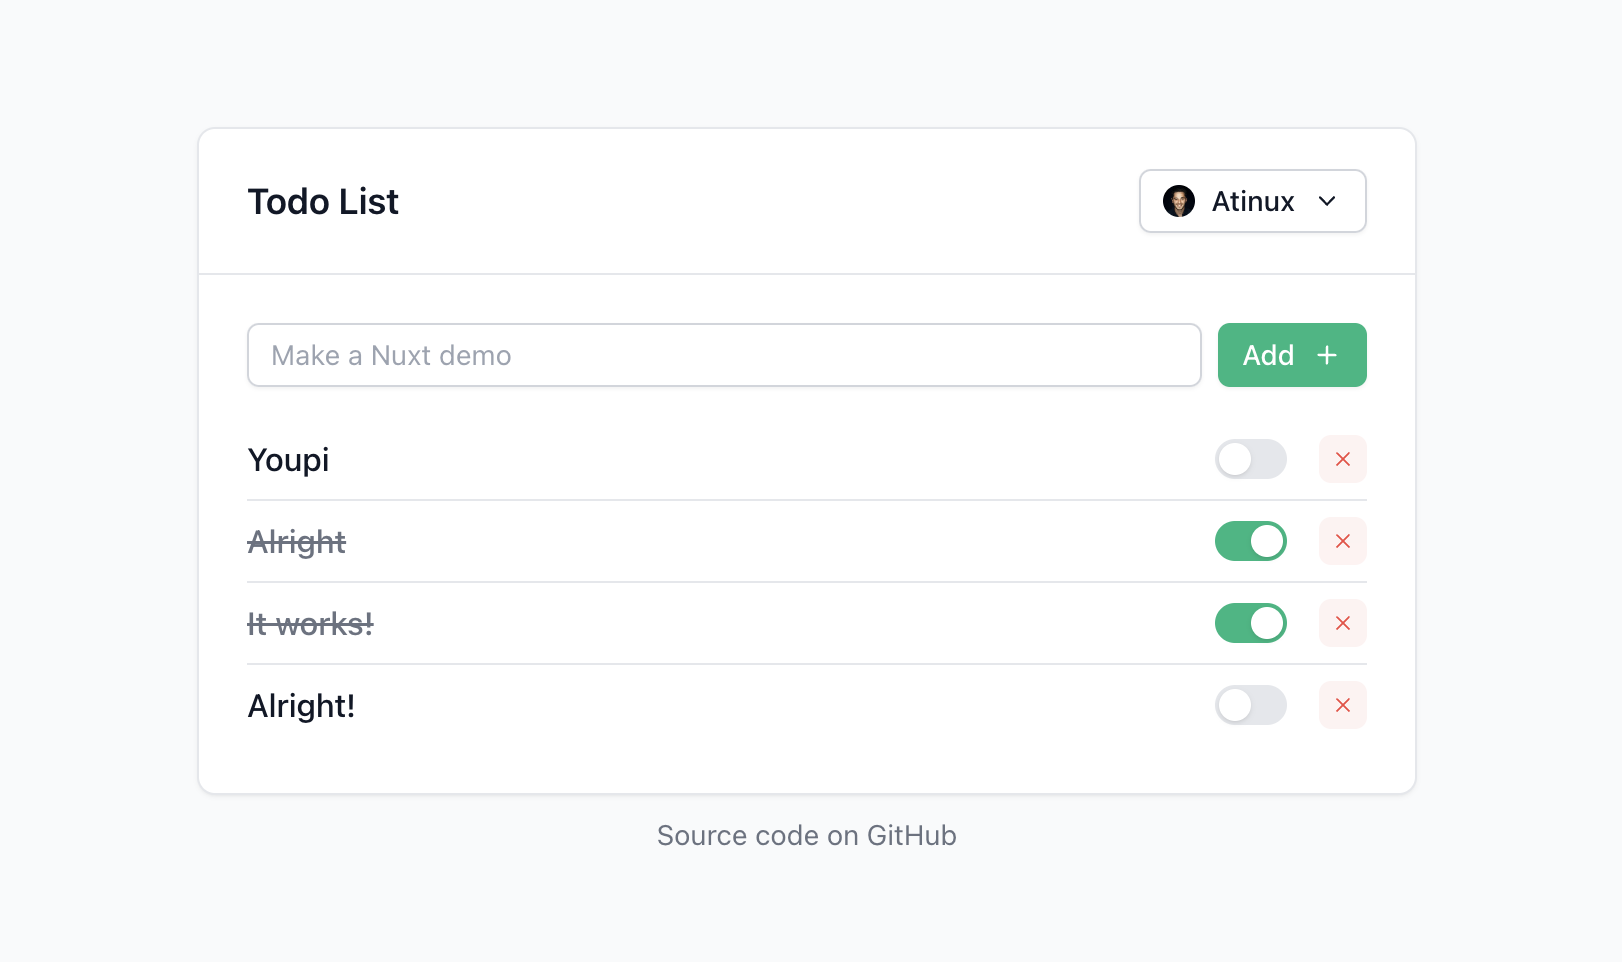
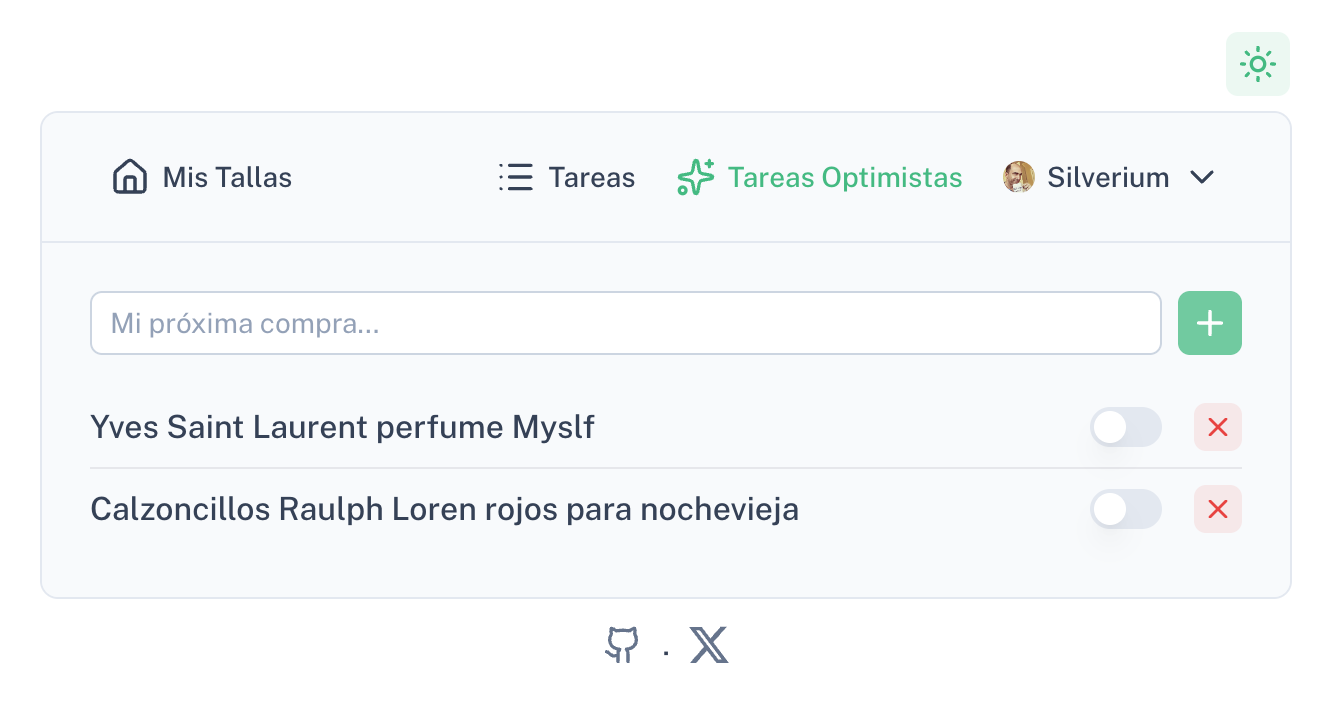
fix: update Spanish translations and improve placeholder text for clarity

diff --git a/app/app.vue b/app/app.vue
@@ -25,7 +25,7 @@ useSeoMeta({
   viewport: 'width=device-width, initial-scale=1, maximum-scale=1',
   title: 'Mis Tallas',
   description:
-    'Una aplicación sencilla para gestionar tus tallas de ropa y calzado.',
+    'Una aplicación sencilla para gestionar tus tallas de ropa, calzado y accesorios.',
   ogImage: '/social-image.png',
   twitterImage: '/social-image.png',
   twitterCard: 'summary_large_image'
@@ -49,11 +49,9 @@ const items = [
         <UButton
           square
           variant="ghost"
-          color="neutral"
-          :icon="
-            $colorMode.preference === 'dark' || $colorMode.preference === 'system'
-              ? 'i-lucide-moon'
-              : 'i-lucide-sun'
+          :icon="$colorMode.preference === 'dark' || $colorMode.preference === 'system'
+            ? 'i-lucide-moon'
+            : 'i-lucide-sun'
           "
           @click="isDarkMode = !isDarkMode"
         />
@@ -63,7 +61,11 @@ const items = [
         <template #header>
           <h3 class="text-lg font-semibold leading-6">
             <NuxtLink to="/">
-              Inicio
+              <UButton
+                variant="ghost"
+                color="neutral"
+                icon="i-lucide-home"
+              >Mis Tallas</UButton>
             </NuxtLink>
           </h3>
           <UButton
@@ -82,14 +84,14 @@ const items = [
             <UButton
               to="/todos"
               icon="i-lucide-list"
-              label="Todos"
+              label="Tareas"
               :color="$route.path === '/todos' ? 'primary' : 'neutral'"
               variant="ghost"
             />
             <UButton
               to="/optimistic-todos"
               icon="i-lucide-sparkles"
-              label="Optimistic Todos"
+              label="Tareas Optimistas"
               :color="$route.path === '/optimistic-todos' ? 'primary' : 'neutral'"
               variant="ghost"
             />
@@ -117,20 +119,28 @@ const items = [
 
       <footer class="text-center mt-2">
         <NuxtLink
-          href="https://github.com/atinux/atidone"
+          href="https://github.com/silverium/mistallas"
           target="_blank"
           class="text-sm text-neutral-500 hover:text-neutral-700"
         >
-          GitHub
+          <UButton
+            color="neutral"
+            variant="link"
+            icon="i-lucide-github"
+          />
         </NuxtLink>
         ·
-        <NuxtLink
-          href="https://twitter.com/atinux"
+        <ULink
+          to="https://x.com/soldesilver"
           target="_blank"
           class="text-sm text-neutral-500 hover:text-neutral-700"
         >
-          Twitter
-        </NuxtLink>
+          <UButton
+            color="neutral"
+            variant="link"
+            icon="prime:twitter"
+          />
+        </ULink>
       </footer>
     </UContainer>
   </UApp>

diff --git a/app/pages/todos.vue b/app/pages/todos.vue
@@ -14,7 +14,7 @@ const { data: todos } = useQuery(todosQuery)
 
 const { mutate: addTodo, isLoading: loading } = useMutation({
   mutation: (title: string) => {
-    if (!title.trim()) throw new Error('Title is required')
+    if (!title.trim()) throw new Error('El título es obligatorio')
 
     return $fetch('/api/todos', {
       method: 'POST',
@@ -27,7 +27,7 @@ const { mutate: addTodo, isLoading: loading } = useMutation({
 
   async onSuccess(todo) {
     await queryCache.invalidateQueries(todosQuery)
-    toast.add({ title: `Todo "${todo.title}" created.` })
+    toast.add({ title: `Tarea "${todo.title}" creada.` })
   },
 
   onSettled() {
@@ -50,7 +50,7 @@ const { mutate: addTodo, isLoading: loading } = useMutation({
     }
     else {
       console.error(err)
-      toast.add({ title: 'Unexpected Error', color: 'error' })
+      toast.add({ title: 'Error inesperado', color: 'error' })
     }
   }
 })
@@ -75,7 +75,7 @@ const { mutate: deleteTodo } = useMutation({
 
   async onSuccess(_result, todo) {
     await queryCache.invalidateQueries(todosQuery)
-    toast.add({ title: `Todo "${todo.title}" deleted.` })
+    toast.add({ title: `Tarea "${todo.title}" eliminada.` })
   }
 })
 </script>
@@ -92,7 +92,7 @@ const { mutate: deleteTodo } = useMutation({
         name="todo"
         :disabled="loading"
         class="flex-1"
-        placeholder="Make a Nuxt demo"
+        placeholder="Mi próxima compra..."
         autocomplete="off"
         :ui="{ root: 'flex-1' }"
       />

diff --git a/app/pages/optimistic-todos.vue b/app/pages/optimistic-todos.vue
@@ -87,7 +87,7 @@ const { mutate: addTodo } = useMutation({
     }
     else {
       console.error(err)
-      toast.add({ title: 'Unexpected Error', color: 'error' })
+      toast.add({ title: 'Error inesperado', color: 'error' })
     }
   }
 })
@@ -133,7 +133,7 @@ const { mutate: toggleTodo } = useMutation({
     }
 
     console.error(err)
-    toast.add({ title: 'Unexpected Error', color: 'error' })
+    toast.add({ title: 'Error inesperado', color: 'error' })
   }
 })
 
@@ -166,7 +166,7 @@ const { mutate: deleteTodo } = useMutation({
     }
 
     console.error(err)
-    toast.add({ title: 'Unexpected Error', color: 'error' })
+    toast.add({ title: 'Error inesperado', color: 'error' })
   }
 })
 </script>
@@ -181,7 +181,7 @@ const { mutate: deleteTodo } = useMutation({
         v-model="newTodo"
         name="todo"
         class="flex-1"
-        placeholder="Make a Nuxt demo"
+        placeholder="Mi próxima compra..."
         autocomplete="off"
         autofocus
         :ui="{ root: 'flex-1' }"
